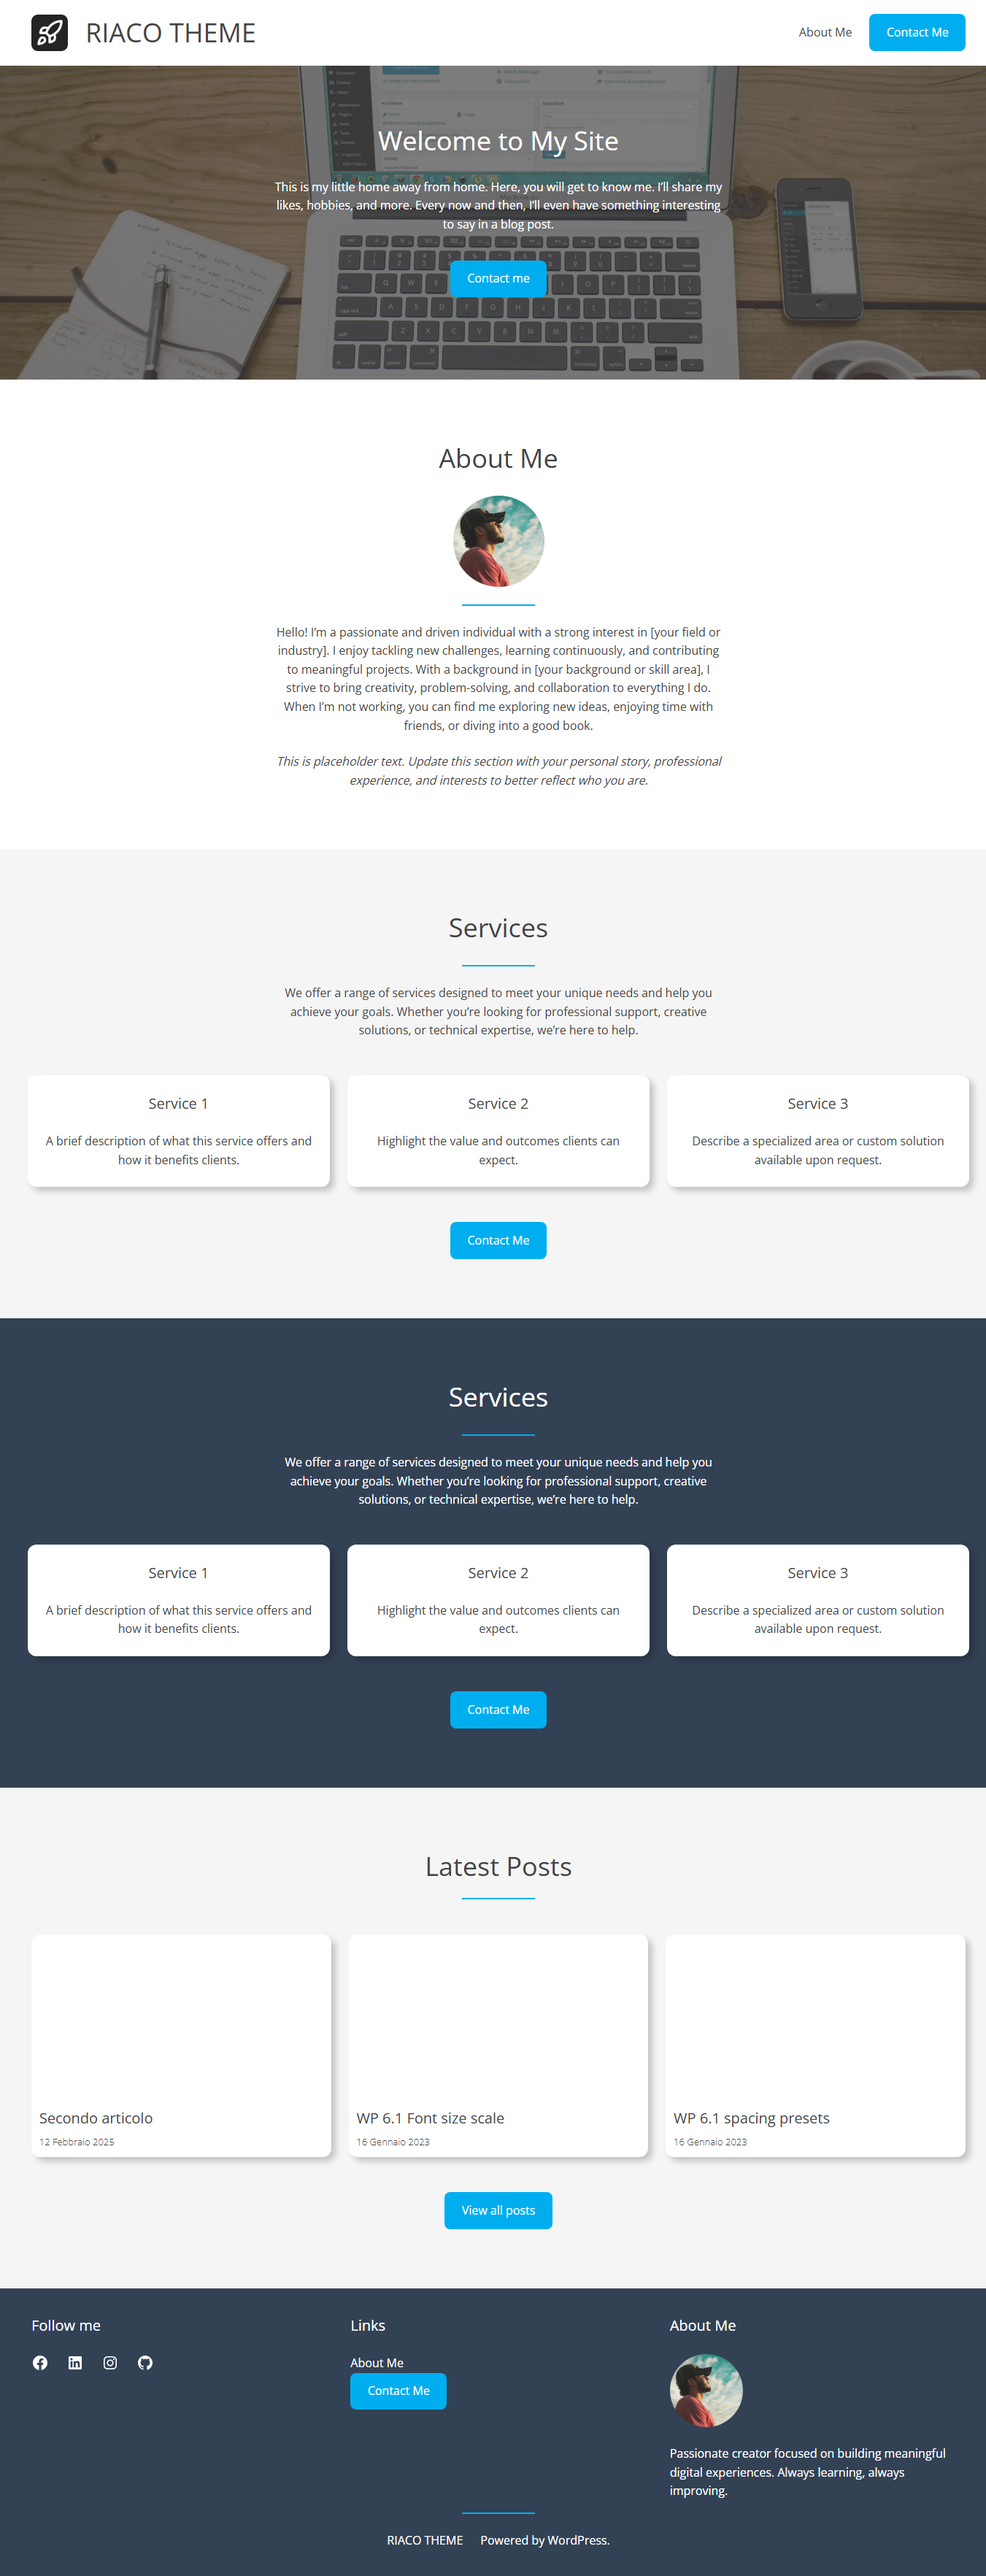
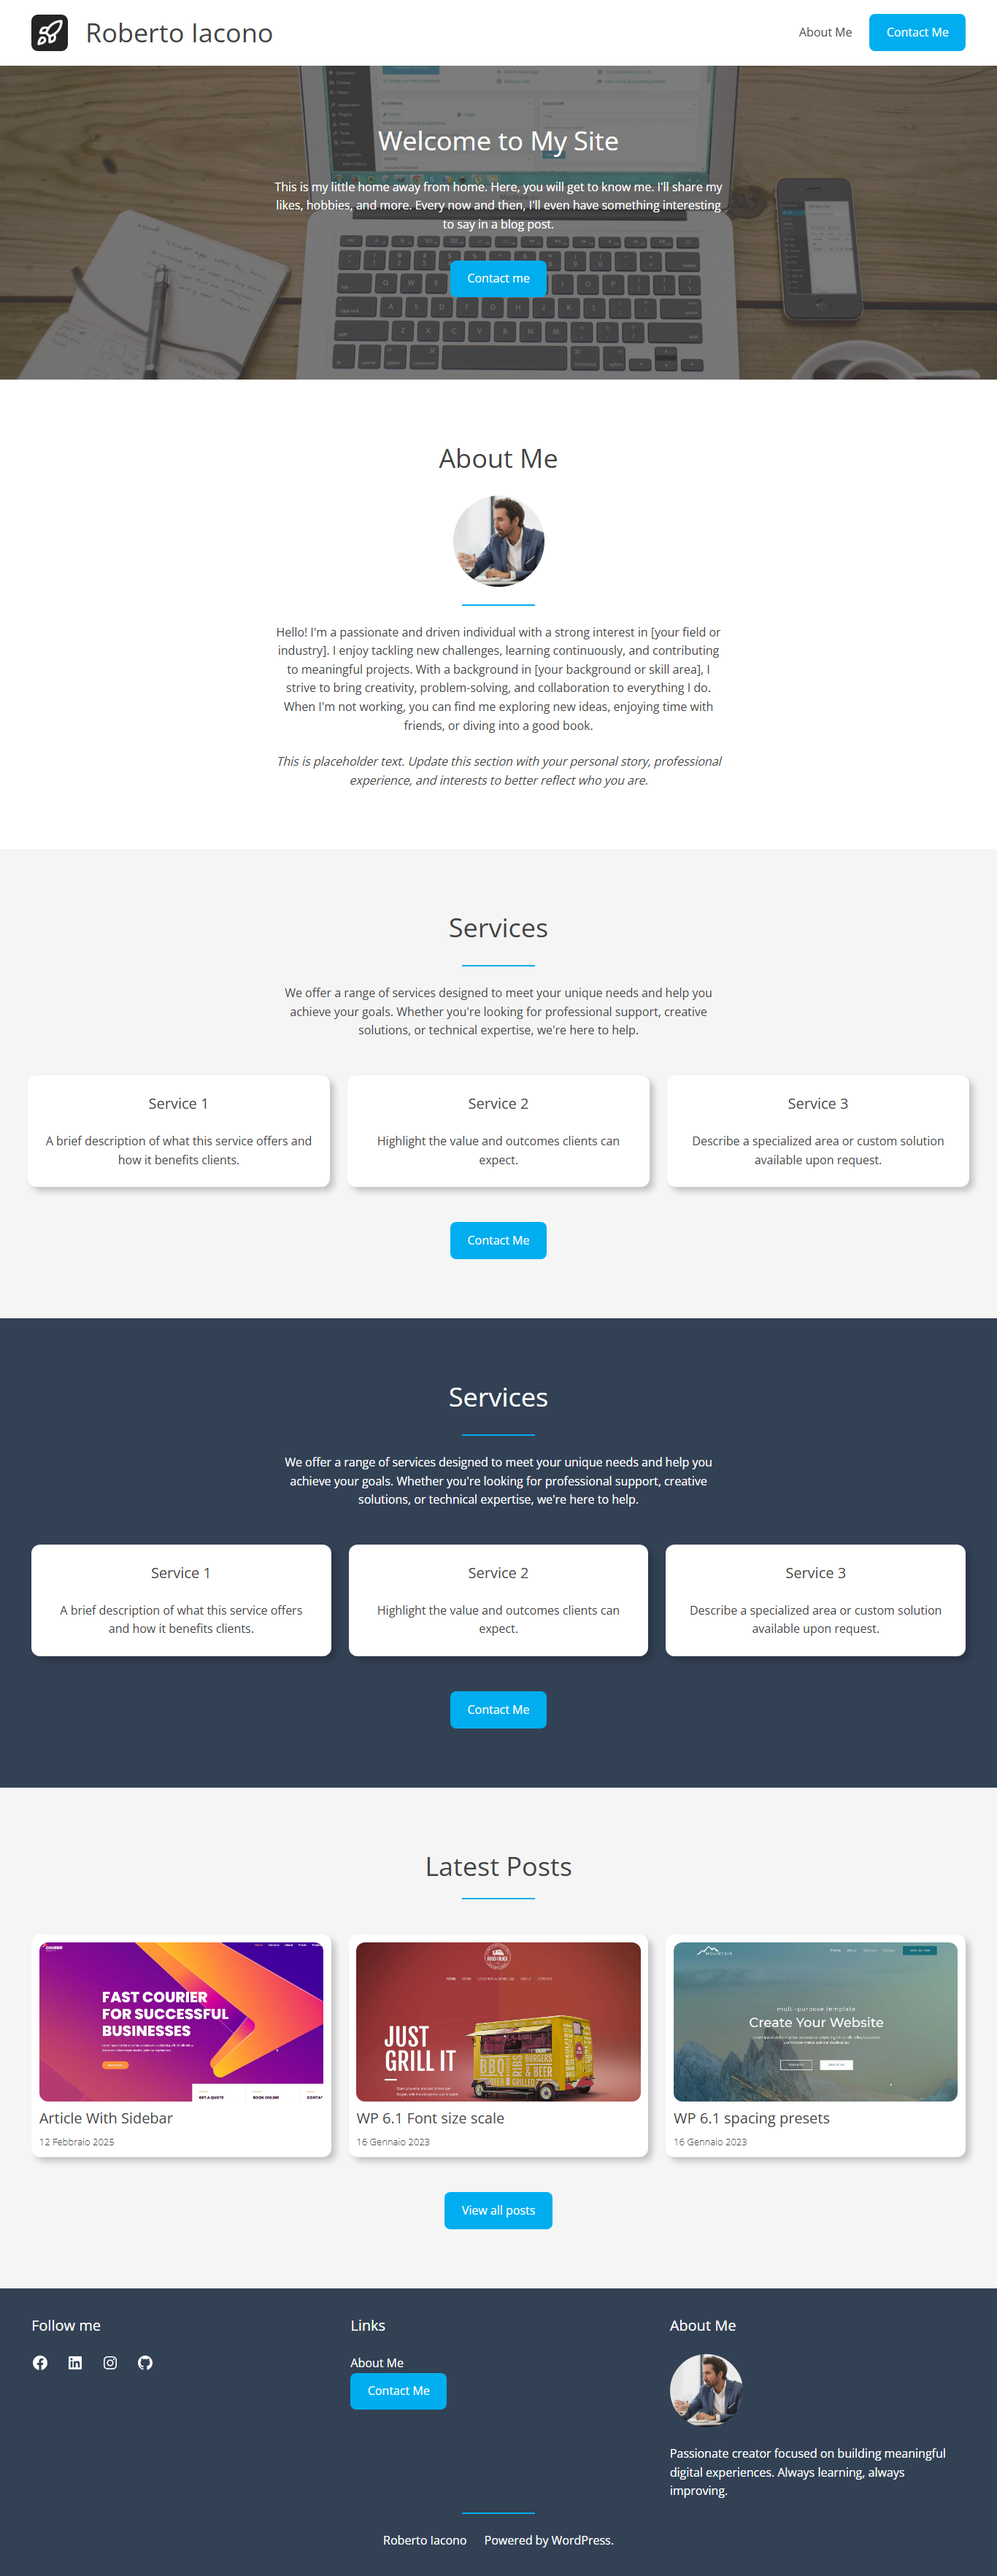
update licenses

diff --git a/style.css b/style.css
@@ -7,10 +7,9 @@ Description: A simple, minimal block-based WordPress theme built for personal us
 Requires at least: 5.9
 Tested up to: 6.7
 Requires PHP: 7.4
-Version: 1.0.0
+Version: 1.0.1
 License: GNU General Public License v2.0 or later
 License URI: https://www.gnu.org/licenses/gpl-2.0.html
 Text Domain: riacot
-Tags: blog, one-column, block-patterns, full-site-editing
+Tags: Blog, Una colonna, Pattern dell'editor a blocchi, Editor del sito
 */
-

diff --git a/templates/wp-custom-template-single-with-sidebar.html b/templates/wp-custom-template-single-with-sidebar.html
@@ -1,0 +1,1 @@
+<!-- wp:pattern {"slug":"riacot/wp-custom-template-single-with-sidebar"} /-->

diff --git a/templates/wp-custom-template-page-with-sidebar.html b/templates/wp-custom-template-page-with-sidebar.html
@@ -1,0 +1,1 @@
+<!-- wp:pattern {"slug":"riacot/wp-custom-template-page-with-sidebar"} /-->

diff --git a/patterns/wp-custom-template-page-with-sidebar.php b/patterns/wp-custom-template-page-with-sidebar.php
@@ -1,0 +1,44 @@
+<?php
+/**
+ * Title: wp-custom-template-page-with-sidebar
+ * Slug: riacot/wp-custom-template-page-with-sidebar
+ * Inserter: no
+ */
+?>
+<!-- wp:template-part {"slug":"header","tagName":"header"} /-->
+
+<!-- wp:group {"tagName":"main","align":"full","style":{"spacing":{"padding":{"top":"var:preset|spacing|40","bottom":"var:preset|spacing|80","left":"var:preset|spacing|40","right":"var:preset|spacing|40"}}},"layout":{"type":"constrained","justifyContent":"center"}} -->
+<main class="wp-block-group alignfull" style="padding-top:var(--wp--preset--spacing--40);padding-right:var(--wp--preset--spacing--40);padding-bottom:var(--wp--preset--spacing--80);padding-left:var(--wp--preset--spacing--40)"><!-- wp:columns {"align":"wide"} -->
+<div class="wp-block-columns alignwide"><!-- wp:column {"width":"66.66%"} -->
+<div class="wp-block-column" style="flex-basis:66.66%"><!-- wp:post-title {"level":1} /-->
+
+<!-- wp:post-date {"displayType":"modified","style":{"spacing":{"margin":{"top":"var:preset|spacing|20","bottom":"var:preset|spacing|20"}}}} /-->
+
+<!-- wp:post-content /--></div>
+<!-- /wp:column -->
+
+<!-- wp:column {"width":"33.33%","style":{"spacing":{"padding":{"top":"var:preset|spacing|40","bottom":"var:preset|spacing|40","left":"var:preset|spacing|40","right":"var:preset|spacing|40"},"blockGap":"var:preset|spacing|60"},"border":{"radius":"12px"}},"backgroundColor":"base-2"} -->
+<div class="wp-block-column has-base-2-background-color has-background" style="border-radius:12px;padding-top:var(--wp--preset--spacing--40);padding-right:var(--wp--preset--spacing--40);padding-bottom:var(--wp--preset--spacing--40);padding-left:var(--wp--preset--spacing--40);flex-basis:33.33%"><!-- wp:search {"label":"","width":657,"widthUnit":"px","buttonText":"Cerca","style":{"border":{"radius":"8px"}},"borderColor":"base-2"} /-->
+
+<!-- wp:group {"layout":{"type":"constrained"}} -->
+<div class="wp-block-group"><!-- wp:heading {"level":3} -->
+<h3 class="wp-block-heading"><?php esc_html_e('Latest Posts', 'riacot');?></h3>
+<!-- /wp:heading -->
+
+<!-- wp:latest-posts /--></div>
+<!-- /wp:group -->
+
+<!-- wp:group {"style":{"position":{"type":"sticky","top":"0px"},"spacing":{"padding":{"top":"var:preset|spacing|30","bottom":"var:preset|spacing|30"}}},"layout":{"type":"constrained"}} -->
+<div class="wp-block-group" style="padding-top:var(--wp--preset--spacing--30);padding-bottom:var(--wp--preset--spacing--30)"><!-- wp:heading {"level":3} -->
+<h3 class="wp-block-heading"><?php esc_html_e('Ads', 'riacot');?></h3>
+<!-- /wp:heading -->
+
+<!-- wp:image {"sizeSlug":"full","linkDestination":"none"} -->
+<figure class="wp-block-image size-full"><img src="<?php echo esc_url( get_template_directory_uri() ); ?>/assets/images/11168356ee88d4c28.62744914-1536x1024-1.jpg" alt="<?php esc_attr_e('WP peace', 'riacot');?>" class=""/></figure>
+<!-- /wp:image --></div>
+<!-- /wp:group --></div>
+<!-- /wp:column --></div>
+<!-- /wp:columns --></main>
+<!-- /wp:group -->
+
+<!-- wp:template-part {"slug":"footer","tagName":"footer"} /-->

diff --git a/patterns/wp-custom-template-single-with-sidebar.php b/patterns/wp-custom-template-single-with-sidebar.php
@@ -1,15 +1,17 @@
 <?php
 /**
- * Title: single
- * Slug: riacot/single
+ * Title: wp-custom-template-single-with-sidebar
+ * Slug: riacot/wp-custom-template-single-with-sidebar
  * Inserter: no
  */
 ?>
 <!-- wp:template-part {"slug":"header","tagName":"header"} /-->
 
 <!-- wp:group {"tagName":"main","align":"full","style":{"spacing":{"padding":{"bottom":"var:preset|spacing|80","left":"var:preset|spacing|40","right":"var:preset|spacing|40","top":"var:preset|spacing|40"}}},"layout":{"type":"constrained"}} -->
-<main class="wp-block-group alignfull" style="padding-top:var(--wp--preset--spacing--40);padding-right:var(--wp--preset--spacing--40);padding-bottom:var(--wp--preset--spacing--80);padding-left:var(--wp--preset--spacing--40)"><!-- wp:group {"tagName":"article","align":"wide","layout":{"type":"constrained"}} -->
-<article class="wp-block-group alignwide"><!-- wp:post-title {"level":1} /-->
+<main class="wp-block-group alignfull" style="padding-top:var(--wp--preset--spacing--40);padding-right:var(--wp--preset--spacing--40);padding-bottom:var(--wp--preset--spacing--80);padding-left:var(--wp--preset--spacing--40)"><!-- wp:columns {"align":"wide"} -->
+<div class="wp-block-columns alignwide"><!-- wp:column {"width":"66.66%"} -->
+<div class="wp-block-column" style="flex-basis:66.66%"><!-- wp:group {"tagName":"article","layout":{"type":"constrained"}} -->
+<article class="wp-block-group"><!-- wp:post-title {"level":1} /-->
 
 <!-- wp:group {"style":{"spacing":{"margin":{"top":"var:preset|spacing|20","bottom":"var:preset|spacing|20"}}},"fontSize":"small","layout":{"type":"flex","flexWrap":"nowrap","orientation":"horizontal","verticalAlignment":"center","justifyContent":"left"}} -->
 <div class="wp-block-group has-small-font-size" style="margin-top:var(--wp--preset--spacing--20);margin-bottom:var(--wp--preset--spacing--20)"><!-- wp:post-author {"showBio":false,"byline":"","style":{"layout":{"selfStretch":"fit","flexSize":null}}} /-->
@@ -62,7 +64,13 @@ echo sprintf( esc_html__( '%1$s•%2$s', 'riacot' ), '<strong>', '</strong>' ); 
 <!-- wp:comments-pagination /-->
 
 <!-- wp:post-comments-form /--></div>
-<!-- /wp:comments --></main>
+<!-- /wp:comments --></div>
+<!-- /wp:column -->
+
+<!-- wp:column {"width":"33.33%","style":{"border":{"radius":"12px"},"spacing":{"padding":{"right":"var:preset|spacing|40","left":"var:preset|spacing|40","top":"var:preset|spacing|40","bottom":"var:preset|spacing|40"}}},"backgroundColor":"base-2"} -->
+<div class="wp-block-column has-base-2-background-color has-background" style="border-radius:12px;padding-top:var(--wp--preset--spacing--40);padding-right:var(--wp--preset--spacing--40);padding-bottom:var(--wp--preset--spacing--40);padding-left:var(--wp--preset--spacing--40);flex-basis:33.33%"><!-- wp:block {"ref":11734} /--></div>
+<!-- /wp:column --></div>
+<!-- /wp:columns --></main>
 <!-- /wp:group -->
 
 <!-- wp:template-part {"slug":"footer","tagName":"footer"} /-->

diff --git a/patterns/footer.php b/patterns/footer.php
@@ -38,7 +38,7 @@
 <!-- /wp:heading -->
 
 <!-- wp:image {"width":"100px","height":"100px","scale":"cover","sizeSlug":"full","linkDestination":"none","className":"is-style-rounded"} -->
-<figure class="wp-block-image size-full is-resized is-style-rounded"><img src="<?php echo esc_url( get_template_directory_uri() ); ?>/assets/images/pexels-kelvin809-810775.jpg" alt="" class="" style="object-fit:cover;width:100px;height:100px"/></figure>
+<figure class="wp-block-image size-full is-resized is-style-rounded"><img src="<?php echo esc_url( get_template_directory_uri() ); ?>/assets/images/StockSnap_JJUUYMLKOC-512.jpg" alt="<?php esc_attr_e('avatar', 'riacot');?>" class="" style="object-fit:cover;width:100px;height:100px"/></figure>
 <!-- /wp:image -->
 
 <!-- wp:paragraph -->

diff --git a/patterns/front-page.php b/patterns/front-page.php
@@ -31,7 +31,7 @@
 <!-- /wp:heading -->
 
 <!-- wp:image {"width":"125px","height":"125px","scale":"cover","sizeSlug":"full","linkDestination":"none","align":"center","className":"is-style-rounded"} -->
-<figure class="wp-block-image aligncenter size-full is-resized is-style-rounded"><img src="<?php echo esc_url( get_template_directory_uri() ); ?>/assets/images/pexels-kelvin809-810775.jpg" alt="" style="object-fit:cover;width:125px;height:125px"/></figure>
+<figure class="wp-block-image aligncenter size-full is-resized is-style-rounded"><img src="<?php echo esc_url( get_template_directory_uri() ); ?>/assets/images/StockSnap_JJUUYMLKOC-512.jpg" alt="" class="" style="object-fit:cover;width:125px;height:125px"/></figure>
 <!-- /wp:image -->
 
 <!-- wp:separator -->
